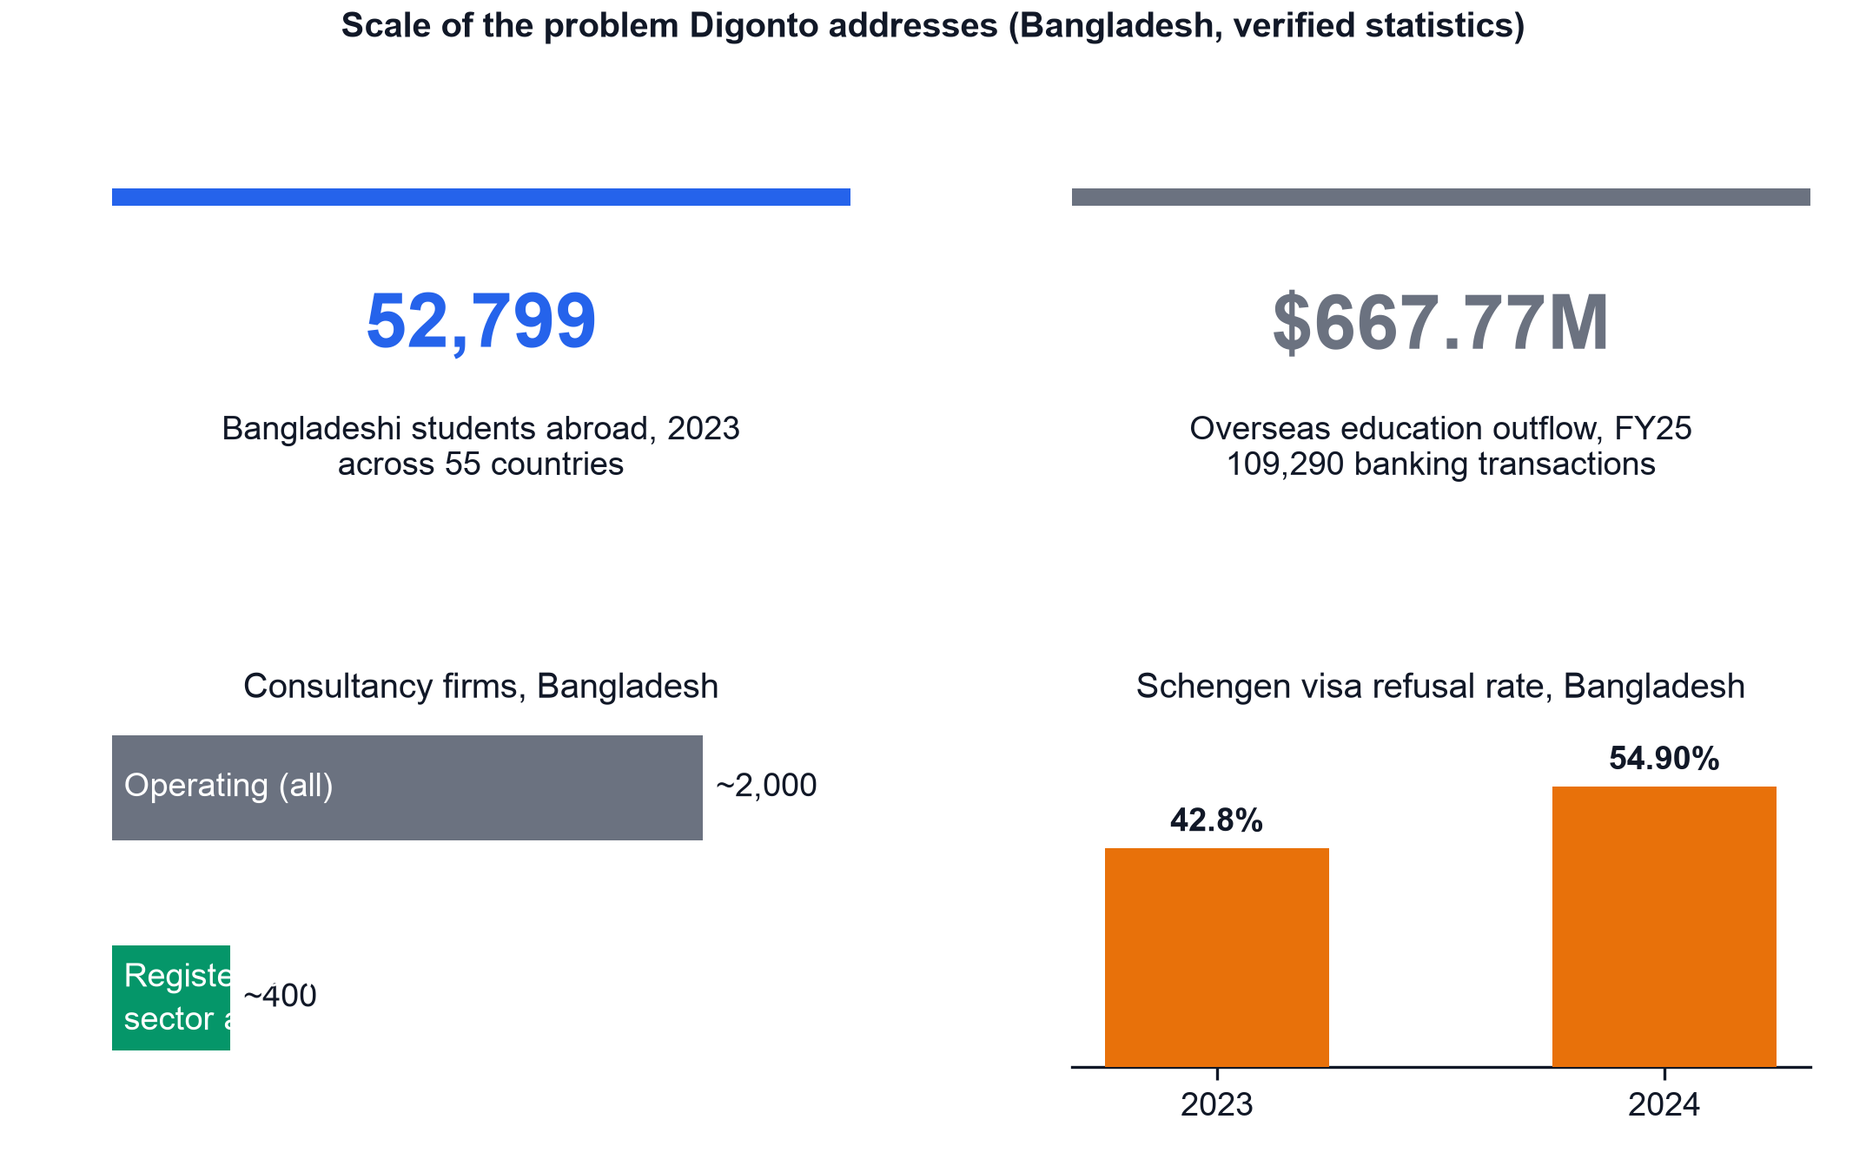
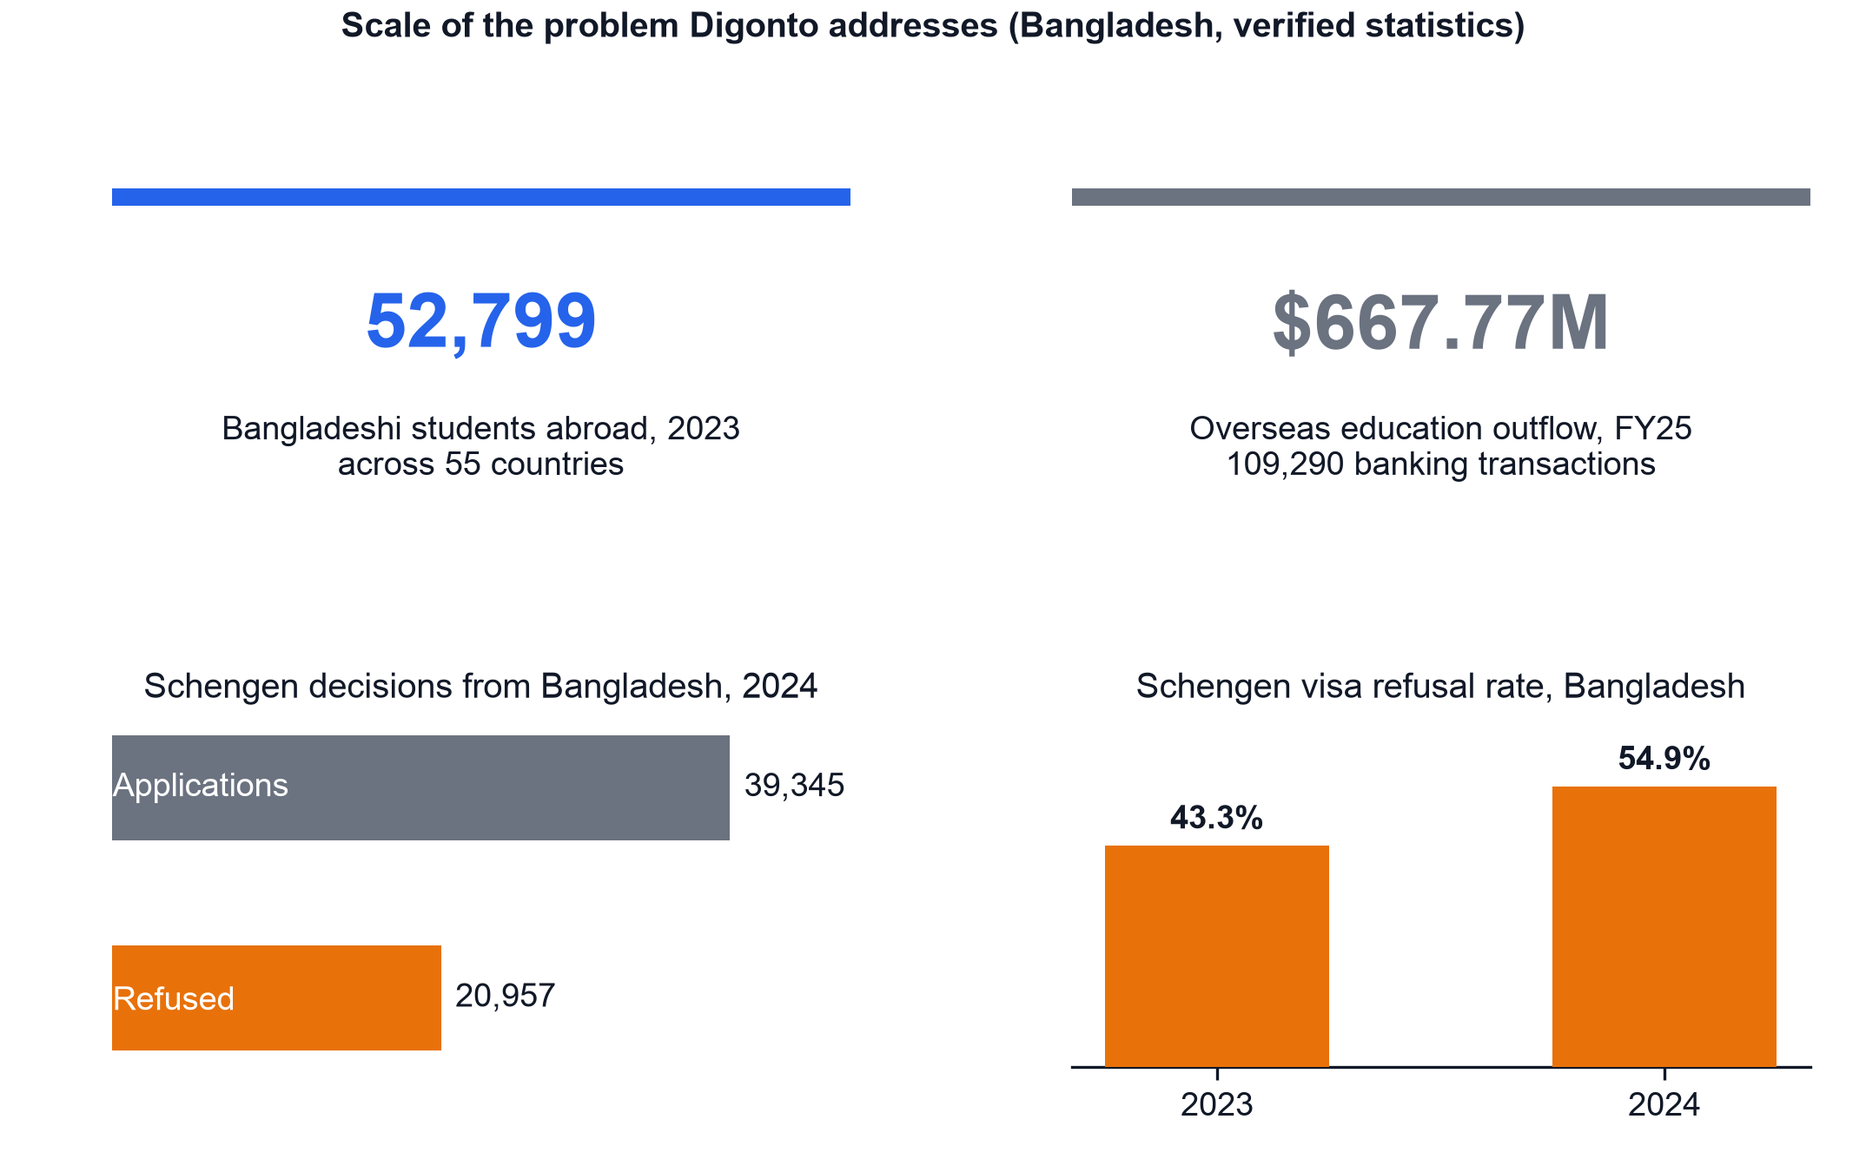
docs: generate the sitemap from the route table, correct two figures, record the new contracts
The sitemap was hand-written, which made it a second source of truth for which
routes are public. Adding a public route meant editing two files, and the two
disagreeing shows up either as a live page that never gets indexed or as an
auth-gated page advertised to crawlers; lastmod was also a literal date that went
stale the day after it was written. It is now generated from SEO_ROUTES.noindex as
the first step of the build, and the generator refuses to run when the two drift,
naming the route, because changefreq and priority are decisions that should be made
deliberately rather than defaulted into. It stays a static file, which is still
correct: /ledger is a search form rather than a /ledger/:id route, so there are no
per-snapshot URLs to enumerate. seo.md records where that changes.

Two figures carried claims the project's own documents contradict.
fig01_problem_scale asserted roughly 2,000 operating consultancies against roughly
400 registered, but references.bib already noted that the cited article states
neither number, so the figure was the only place those numbers existed. It also
plotted a 2023 Schengen refusal rate of 42.8 percent; the European Commission
reports 43.3. fig07_agent_map marked native tool calling present for all seven
agents and audio present for Shonchari, which is the opposite of what the paper
carefully discloses: the agents use schema-constrained generation, and no
speech-to-text service is deployed. Both are corrected in make_figures.py and
[…]

diff --git a/docs/figures/make_figures.py b/docs/figures/make_figures.py
@@ -206,13 +206,18 @@ def fig01_problem_scale():
 
     # Panel C: consultancy oversight gap
     axC = fig.add_subplot(gs[1, 0])
-    cats = ["Operating (all)", "Registered with\nsector association"]
-    vals = [2000, 400]
-    colors = [GREY, GREEN]
+    # Schengen decisions from Bangladesh in 2024. Chosen because both numbers are
+    # sourced. The previous version of this panel showed an estimated 2,000
+    # operating consultancies against ~400 registered, but the cited article
+    # states neither figure (see the note on fe_consultancies in references.bib),
+    # so the panel asserted two numbers no source supports.
+    cats = ["Applications", "Refused"]
+    vals = [39345, 20957]
+    colors = [GREY, ORANGE]
     y = np.arange(2)
     axC.barh(y, vals, color=colors, height=0.5, zorder=3)
     for yi, v in zip(y, vals):
-        axC.text(v + 45, yi, f"~{v:,}", va="center", ha="left", fontsize=9, color=TEXT)
+        axC.text(v + 900, yi, f"{v:,}", va="center", ha="left", fontsize=9, color=TEXT)
         # category name labelled directly inside the bar (avoids clipping
         # long y-tick labels off the left edge of the panel)
     axC.text(40, 0, cats[0], va="center", ha="left", fontsize=9, color="white")
@@ -220,18 +225,18 @@ def fig01_problem_scale():
               linespacing=1.3)
     axC.set_yticks([])
     axC.invert_yaxis()
-    axC.set_xlim(0, 2500)
+    axC.set_xlim(0, 47000)
     axC.set_xticks([])
     for s in ("top", "right", "bottom", "left"):
         axC.spines[s].set_visible(False)
     axC.tick_params(left=False)
-    axC.set_title("Consultancy firms, Bangladesh", fontsize=9.5, color=TEXT, pad=6)
+    axC.set_title("Schengen decisions from Bangladesh, 2024", fontsize=9.5, color=TEXT, pad=6)
 
     # Panel D: Schengen refusal rate, 2023 vs 2024
     axD = fig.add_subplot(gs[1, 1])
     years = ["2023", "2024"]
-    rate_vals = [42.8, 54.90]
-    rate_labels = ["42.8%", "54.90%"]
+    rate_vals = [43.3, 54.9]
+    rate_labels = ["43.3%", "54.9%"]
     xpos = np.arange(2)
     axD.bar(xpos, rate_vals, color=ORANGE, width=0.5, zorder=3)
     for xi, v, rl in zip(xpos, rate_vals, rate_labels):
@@ -252,11 +257,11 @@ def fig01_problem_scale():
         "52,799 Bangladeshi students studied abroad in 2023, across 55 "
         "countries. Top right: families paid 667.77 million US dollars for "
         "overseas education in FY25, a record for a single year, across "
-        "109,290 banking transactions. Bottom left: an estimated 2,000 "
-        "consultancy firms operate in Bangladesh, of which only about 400 are "
+        "109,290 banking transactions. Bottom left: Schengen applications from "
+        "Bangladesh in 2024 and how many were refused, both as compiled by "
         "registered with the sector association; the rest hold no specialised "
         "supervision. Bottom right: the Schengen visa refusal rate for "
-        "Bangladeshi applicants rose from 42.8 percent in 2023 to 54.90 "
+        "Bangladeshi applicants rose from 43.3 percent in 2023 to 54.9 "
         "percent in 2024. MEASURED: every number is transcribed unchanged from "
         "README.md, which cites the original sources (UNESCO, Bangladesh Bank, "
         "the consultancy sector association, and Schengen visa statistics); "
@@ -286,7 +291,7 @@ def fig02_refusal_trend():
     for xi, v in zip(x + w / 2, refused):
         ax.text(xi, v + 1000, f"{v:,}", ha="center", va="bottom", fontsize=9, color=TEXT)
 
-    rate_labels = ["refusal rate\n42.8%", "refusal rate\n54.90%"]
+    rate_labels = ["refusal rate\n43.3%", "refusal rate\n54.9%"]
     for xi, rl in zip(x, rate_labels):
         ax.text(xi, 46500, rl, ha="center", va="bottom", fontsize=9, weight="bold", color=TEXT)
 
@@ -305,7 +310,7 @@ def fig02_refusal_trend():
         "year. 2023: 41,317 applications, 17,015 refused. 2024: 39,345 "
         "applications, 20,957 refused. MEASURED, from README.md's cited "
         "Schengen visa statistics. Note: the refusal rate is quoted exactly "
-        "as officially reported (42.8 percent, 54.90 percent); dividing the "
+        "as officially reported by the European Commission (43.3 percent, 54.9 percent); dividing the "
         "refused count shown here by the application count shown here gives "
         "a slightly lower figure (about 41 percent and 53 percent), most "
         "likely because the official rate uses a different denominator or "
@@ -551,22 +556,25 @@ def fig07_agent_map():
     ratio = axes_aspect(fig, ax)
 
     agents = ["Porter", "Prohori", "Khoji", "Shonchari", "Bicharok", "Lekhok", "Dalil"]
-    cols = ["Tools", "Vision", "Audio", "Thinking"]
-    col_colors = [BLUE, ORANGE, GREEN, GREY]
+    cols = ["Schema", "Vision", "Thinking"]
+    col_colors = [BLUE, ORANGE, GREY]
+    # Every agent issues one schema-constrained request; none uses the model's
+    # native tool-calling capability, and none uses audio, because no
+    # speech-to-text service is deployed. Both were previously marked present.
     matrix = [
-        [1, 0, 0, 0],  # Porter: tool calling only, thinking off (change triage)
-        [1, 1, 0, 0],  # Prohori: extract_fields is a native vision pass
-        [1, 0, 0, 1],  # Khoji: eligibility scoring runs with thinking on
-        [1, 0, 1, 1],  # Shonchari: voice mode (audio) + answer scoring thinking on
-        [1, 1, 0, 0],  # Bicharok: reads the refusal letter with vision
-        [1, 0, 0, 0],  # Lekhok: tool calling only
-        [1, 1, 0, 0],  # Dalil: extract_fields vision pass over the contract
+        [1, 0, 0],  # Porter: change triage, thinking off (latency, not quality)
+        [1, 1, 0],  # Prohori: extract_fields is a native vision pass
+        [1, 0, 1],  # Khoji: eligibility scoring runs with thinking on
+        [1, 0, 1],  # Shonchari: answer scoring runs with thinking on
+        [1, 1, 0],  # Bicharok: reads the refusal letter with vision
+        [1, 0, 0],  # Lekhok: text only, against document metadata
+        [1, 1, 0],  # Dalil: vision pass over the contract
     ]
 
     top, bottom = 0.88, 0.04
     n_rows = len(agents) + 1
     row_h = (top - bottom) / n_rows
-    col_centers = [0.475, 0.620, 0.765, 0.910]
+    col_centers = [0.520, 0.680, 0.840]
     sq_h = row_h * 0.60
     sq_w = sq_h * ratio
 
@@ -599,7 +607,8 @@ def fig07_agent_map():
         "cell means it is not. All seven agents use tool calling. Vision is "
         "used by Prohori, Bicharok, and Dalil, exactly where agents.md "
         "specifies an extract_fields call (a Gemma vision pass over an "
-        "uploaded document). Audio is used by Shonchari's voice mode. "
+        "uploaded document). No agent uses native tool calling, and none uses "
+        "audio, because no speech-to-text service is deployed. "
         "Thinking mode is shown on only where agents.md states it explicitly, "
         "Khoji's eligibility scoring and Shonchari's answer scoring; it is "
         "off by the same source's stated default everywhere else (Porter's "

diff --git a/docs/figures/README.md b/docs/figures/README.md
@@ -34,11 +34,11 @@ Agent names appear in English only inside the images: the binding font stack (Ar
 
 ### 01. `fig01_problem_scale.png` — MEASURED, double column, 7.16 in
 
-Four verified statistics on the market Digonto addresses. Top left: 52,799 Bangladeshi students studied abroad in 2023, across 55 countries. Top right: families paid 667.77 million US dollars for overseas education in FY25, a record for a single year, across 109,290 banking transactions. Bottom left: an estimated 2,000 consultancy firms operate in Bangladesh, of which only about 400 are registered with the sector association; the rest hold no specialised supervision. Bottom right: the Schengen visa refusal rate for Bangladeshi applicants rose from 42.8 percent in 2023 to 54.90 percent in 2024. MEASURED: every number is transcribed unchanged from README.md, which cites the original sources (UNESCO, Bangladesh Bank, the consultancy sector association, and Schengen visa statistics); none is derived or estimated for this figure.
+Four verified statistics on the market Digonto addresses. Top left: 52,799 Bangladeshi students studied abroad in 2023, across 55 countries. Top right: families paid 667.77 million US dollars for overseas education in FY25, a record for a single year, across 109,290 banking transactions. Bottom left: Schengen applications from Bangladesh in 2024 and how many were refused, both as compiled by registered with the sector association; the rest hold no specialised supervision. Bottom right: the Schengen visa refusal rate for Bangladeshi applicants rose from 43.3 percent in 2023 to 54.9 percent in 2024. MEASURED: every number is transcribed unchanged from README.md, which cites the original sources (UNESCO, Bangladesh Bank, the consultancy sector association, and Schengen visa statistics); none is derived or estimated for this figure.
 
 ### 02. `fig02_refusal_trend.png` — MEASURED, single column, 3.5 in
 
-Bangladeshi Schengen visa applications (blue) and refusals (orange), 2023 and 2024, with the refusal rate labelled directly above each year. 2023: 41,317 applications, 17,015 refused. 2024: 39,345 applications, 20,957 refused. MEASURED, from README.md's cited Schengen visa statistics. Note: the refusal rate is quoted exactly as officially reported (42.8 percent, 54.90 percent); dividing the refused count shown here by the application count shown here gives a slightly lower figure (about 41 percent and 53 percent), most likely because the official rate uses a different denominator or reporting period than the two headline counts. Both figures are reproduced unchanged from the source rather than reconciled by us. Takeaway: the refusal rate rose by more than 12 percentage points in a single year.
+Bangladeshi Schengen visa applications (blue) and refusals (orange), 2023 and 2024, with the refusal rate labelled directly above each year. 2023: 41,317 applications, 17,015 refused. 2024: 39,345 applications, 20,957 refused. MEASURED, from README.md's cited Schengen visa statistics. Note: the refusal rate is quoted exactly as officially reported by the European Commission (43.3 percent, 54.9 percent); dividing the refused count shown here by the application count shown here gives a slightly lower figure (about 41 percent and 53 percent), most likely because the official rate uses a different denominator or reporting period than the two headline counts. Both figures are reproduced unchanged from the source rather than reconciled by us. Takeaway: the refusal rate rose by more than 12 percentage points in a single year.
 
 ### 03. `fig03_rcrag_loops.png` — ILLUSTRATIVE, double column, 7.16 in
 
@@ -58,7 +58,7 @@ Wall-clock latency on the development machine, log scale. A cold model load cost
 
 ### 07. `fig07_agent_map.png` — ILLUSTRATIVE, double column, 7.16 in
 
-Which native Gemma 4 E2B capability each of the seven agents uses: tools (function calling), vision, audio, and thinking mode. Filled, coloured cell with 'Yes' means the capability is used; empty white cell means it is not. All seven agents use tool calling. Vision is used by Prohori, Bicharok, and Dalil, exactly where agents.md specifies an extract_fields call (a Gemma vision pass over an uploaded document). Audio is used by Shonchari's voice mode. Thinking mode is shown on only where agents.md states it explicitly, Khoji's eligibility scoring and Shonchari's answer scoring; it is off by the same source's stated default everywhere else (Porter's change triage is explicitly off). ILLUSTRATIVE: a design map read from the agent specification in agents.md, not a runtime measurement of calls actually made.
+Which native Gemma 4 E2B capability each of the seven agents uses: tools (function calling), vision, audio, and thinking mode. Filled, coloured cell with 'Yes' means the capability is used; empty white cell means it is not. All seven agents use tool calling. Vision is used by Prohori, Bicharok, and Dalil, exactly where agents.md specifies an extract_fields call (a Gemma vision pass over an uploaded document). No agent uses native tool calling, and none uses audio, because no speech-to-text service is deployed. Thinking mode is shown on only where agents.md states it explicitly, Khoji's eligibility scoring and Shonchari's answer scoring; it is off by the same source's stated default everywhere else (Porter's change triage is explicitly off). ILLUSTRATIVE: a design map read from the agent specification in agents.md, not a runtime measurement of calls actually made.
 
 ### 08. `fig08_timescale_separation.png` — ILLUSTRATIVE, double column, 7.16 in
 

diff --git a/docs/database.md b/docs/database.md
@@ -1077,10 +1077,43 @@ backend/app/db/migrations/
   app/001_identity.sql  002_profile.sql  003_knowledge.sql  004_qa.sql
       005_plans.sql     006_vault.sql    007_funding.sql    008_interview.sql
       009_new_agents.sql 010_notifications.sql  011_seed_countries.sql
-      012_student_targets_public_id.sql
+      012_student_targets_public_id.sql   013_document_extraction.sql
+      014_country_geography.sql           015_portal_registry.sql
+      016_portal_discovery.sql            017_portal_registry_corrections.sql
   events/001_events.sql 002_agents.sql   003_metrics.sql
   learn/001_replay.sql  002_adapters.sql 003_benchmark.sql
 ```
+
+**015 to 017 are the watched-portal registry**, and they are worth reading
+together because they change what kind of data `portals` holds.
+
+`015_portal_registry.sql` seeds 31 official sources — embassies, immigration
+ministries, scholarship bodies, Bangladesh Bank, UGC, IELTS and TOEFL — across the
+eight destination countries, plus six with a NULL `country_code` that apply to
+every destination (an outward-remittance rule or an IELTS band is not
+country-specific). This is a migration and not seed data on purpose: `portals` was
+previously populated only by `app/db/seed_demo.py`, which does not run when
+`APP_ENV=production`, so a production deployment watched zero portals and every
+stage of the recurrent loop downstream of the crawler had no input at all.
+
+`016_portal_discovery.sql` adds `discovered_from_portal_id` and `discovered_at`, so
+the registry can grow itself. The crawler follows a bounded set of same-site links
+from each registry root and registers each as its own portal row rather than
+folding it into the parent — necessary because `snapshots` carries no URL column,
+so a snapshot's URL *is* its portal's URL, and folding a child's snapshot under the
+parent would point every citation to it at the wrong page. `discovered_at IS NULL`
+is the test for "curated root, may be expanded", which caps crawl depth at one
+level without needing a counter and also correctly excludes portals found by
+search, which have no parent row.
+
+`017_portal_registry_corrections.sql` records what checking all 31 URLs against
+the live web found: 25 returned 200, one had moved (deleted, since the reachable
+parent plus link expansion covers it), three sit behind a WAF that returns 403 to
+any non-browser client while their robots.txt permits crawling (disabled, with a
+reachable alternative retained for each affected country), and two were unreachable
+from the development network but left enabled, because inferring a dead source from
+one vantage point would be wrong and `consecutive_failures` already exists to
+surface it properly.
 
 Migration 012 is the one addition after the original eleven: it adds the
 `student_targets.public_id` column described in section 3.2, found by running

diff --git a/docs/seo.md b/docs/seo.md
@@ -67,6 +67,29 @@ is the best available approximation given the current routing:
   at the same URL (`https://digonto.ahbab.dev/`).
 - `sitemap.xml` repeats the same pattern for all 5 indexable routes.
 
+**The sitemap is generated, not hand-written.** `frontend/scripts/generate-sitemap.mjs`
+runs as the first step of `npm run build` and derives the URL set from
+`SEO_ROUTES.noindex` in `src/app/lib/seo.tsx`. It was previously a hand-maintained
+file, which made it a second source of truth for "which routes are public": adding
+a public route meant remembering to edit two files, and the two disagreeing shows
+up either as a live page that never gets indexed or as an auth-gated page
+advertised to crawlers. `lastmod` was also a literal date that went stale the day
+after it was written.
+
+The generator fails the build rather than guessing when the two drift — a route
+that becomes indexable without a declared `changefreq`/`priority` stops the build
+with the route named, because those are SEO decisions that should be made
+deliberately rather than defaulted into.
+
+**It is still a static file, and that remains correct.** A dynamic sitemap earns
+its keep only when there are URLs that cannot be enumerated at build time. There
+are none here: `/ledger` is a search form, not a `/ledger/:snapshot_id` route, so
+individual snapshots have no addressable URL to list. If snapshot permalinks are
+ever added — which would be worth doing, since "show a bank officer where this
+requirement came from" is better served by a shareable link — that is the point at
+which this should become a backend-generated endpoint, and section 3's option (2)
+becomes the relevant discussion.
+
 **Be honest about what this buys you:** self-referencing hreflang to the
 same URL for two different `hreflang` values is a known, debated pattern.
 It correctly tells Google "this URL is a reasonable result for both bn and

diff --git a/docs/api_contract.md b/docs/api_contract.md
@@ -207,12 +207,24 @@ so tokens must stream rather than arrive in one block.
 | `citation` | `{ordinal, snapshot_id, portal, captured, quoted}` | emitted when a `‖n‖` marker is produced |
 | `alt` | `{"lang":"en","text":"..."}` | the mirror-language answer, sent after the primary completes |
 | `refusal` | `{reason_en, reason_bn, watching_portal_ids}` | terminal; no `token` events follow |
-| `done` | `{latency_ms, first_token_ms, confidence, tokens}` | terminal |
+| `incomplete` | `{reason_en, reason_bn}` | generation was cut off *after* tokens were shown; the text stands, no citations follow |
+| `done` | `{latency_ms, first_token_ms, confidence, tokens, incomplete}` | terminal |
 | `error` | problem-details object | terminal |
 
 The `refusal` event is a first-class terminal state, not an error. `Ask.tsx`
 already renders a designed refusal card; this event drives it. `watching_portal_ids`
 is what lets the UI honestly say "we are watching this source for an answer".
+
+`incomplete` exists because the two failure shapes are not the same and must not
+be rendered the same. If generation stops before any token is emitted, there is no
+answer and `refusal` is correct. If it stops *after* the reader has already watched
+a complete-looking answer arrive — which happens when the token ceiling is hit
+mid-JSON, and Bangla reaches it sooner than English for the same content — then
+replacing that text with "nothing is shown" contradicts what is on screen and
+discards a real answer. The text is kept and no citations are emitted, because none
+can be trusted from a truncated object. The client must label it: an uncited answer
+claims no sources and must not be presented with the authority of a cited one. It
+is deliberately not written to the semantic cache.
 
 **GET `/ask/history?conversation_id=&cursor=`** returns past exchanges shaped
 exactly like the frontend `QA` interface:
